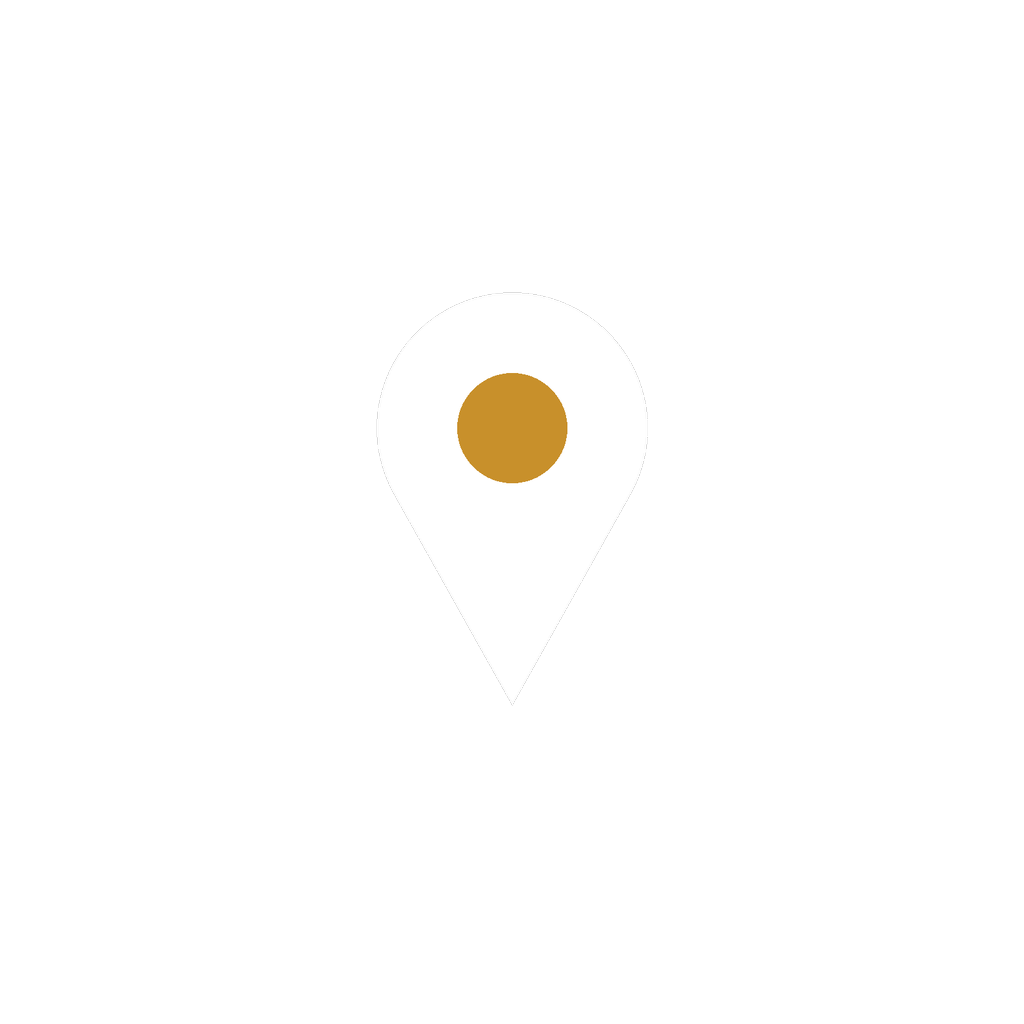
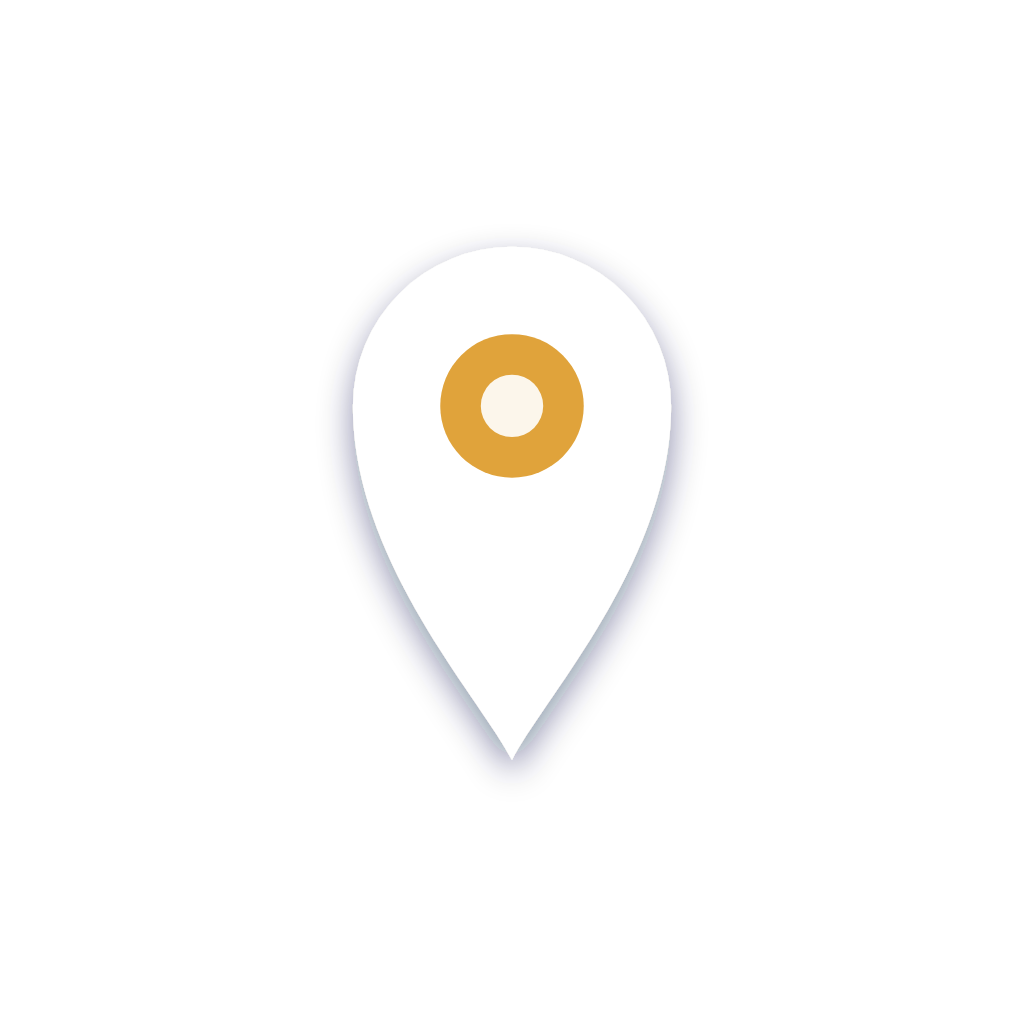
Açılış ekranı, yeni ikon ve telif koruması (sürüm 3.2)
- Açılışta uygulama adı, ikon ve 'Hazırlayan: Mert Turanlıoğlu' ekranı
- Yeni ikon: ana ekran (iPhone/Android) ve APK için
- LICENSE: tüm hakları saklıdır; kod ve dosyalarda telif notu
- Uygulama başka bir sitede yayınlanırsa orijinalini gösteren uyarı

Changed region(s): [[0.3125, 0.3125, 0.6875, 0.75], [0.4062, 0.3125, 0.5938, 0.4688]]

diff --git a/docs/index.html b/docs/index.html
@@ -1,10 +1,14 @@
 <!doctype html>
+<!-- Gezi Rehberi · © 2026 Mert Turanlıoğlu · Tüm hakları saklıdır. İzinsiz kopyalanamaz ve yayınlanamaz. -->
 <html lang="tr">
 <head>
 <meta charset="utf-8">
 <meta name="viewport" content="width=device-width,initial-scale=1,viewport-fit=cover">
 <meta name="theme-color" content="#1f4fa3">
 <title>Gezi Rehberi</title>
+<meta name="author" content="Mert Turanlıoğlu">
+<meta name="copyright" content="© 2026 Mert Turanlıoğlu. Tüm hakları saklıdır.">
+<meta name="description" content="Gezi Rehberi: Türkiye'nin 81 ilinde gezilecek yerler. Hazırlayan: Mert Turanlıoğlu.">
 <link rel="manifest" href="manifest.webmanifest">
 <link rel="icon" href="icon-192.png">
 <link rel="apple-touch-icon" href="apple-touch-icon.png">
@@ -13,9 +17,41 @@
 <meta name="apple-mobile-web-app-title" content="Gezi Rehberi">
 <meta name="apple-mobile-web-app-status-bar-style" content="default">
 <link rel="stylesheet" href="vendor/leaflet.css">
-<link rel="stylesheet" href="style.css?v=3.1">
+<link rel="stylesheet" href="style.css?v=3.2">
+<style>
+.splash{position:fixed;inset:0;z-index:9999;display:flex;flex-direction:column;align-items:center;justify-content:space-between;
+  padding:calc(24px + env(safe-area-inset-top,0px)) 24px calc(34px + env(safe-area-inset-bottom,0px));
+  background:linear-gradient(165deg,#2f6ad0,#1f4fa3 55%,#163a7c);color:#fff;text-align:center;
+  font-family:system-ui,-apple-system,"Segoe UI",Roboto,sans-serif;transition:opacity .45s ease,visibility .45s;cursor:pointer}
+.splash.out{opacity:0;visibility:hidden}
+.sp-mid{flex:1;display:flex;flex-direction:column;align-items:center;justify-content:center;gap:14px}
+.sp-mid img{width:116px;height:116px;border-radius:27px;box-shadow:0 18px 40px rgba(5,20,50,.45);animation:spPop .7s cubic-bezier(.2,1.4,.4,1) both}
+.sp-app{font-size:34px;font-weight:800;letter-spacing:-.5px;margin:6px 0 0;animation:spUp .6s .2s ease both}
+.sp-tag{font-size:15px;opacity:.85;margin:0;animation:spUp .6s .3s ease both}
+.sp-by{display:flex;flex-direction:column;gap:2px;animation:spUp .6s .45s ease both}
+.sp-by small{font-size:12px;letter-spacing:.14em;text-transform:uppercase;opacity:.75}
+.sp-by b{font-size:26px;font-weight:700;letter-spacing:.2px}
+.sp-by span{font-size:11px;opacity:.6;margin-top:6px}
+@keyframes spPop{from{opacity:0;transform:scale(.7)}to{opacity:1;transform:none}}
+@keyframes spUp{from{opacity:0;transform:translateY(12px)}to{opacity:1;transform:none}}
+@media (prefers-reduced-motion:reduce){.sp-mid img,.sp-app,.sp-tag,.sp-by{animation:none}}
+.kopya{position:fixed;left:0;right:0;bottom:0;z-index:9000;background:#c2462e;color:#fff;font:600 13px/1.4 system-ui,sans-serif;text-align:center;padding:10px 14px calc(10px + env(safe-area-inset-bottom,0px))}
+.kopya a{color:#fff}
+</style>
 </head>
 <body>
+<div class="splash" id="splash" aria-hidden="true">
+  <div class="sp-mid">
+    <img src="icon-512.png" alt="">
+    <p class="sp-app">Gezi Rehberi</p>
+    <p class="sp-tag">Türkiye'nin 81 ilinde gezilecek yerler</p>
+  </div>
+  <div class="sp-by">
+    <small>Hazırlayan</small>
+    <b>Mert Turanlıoğlu</b>
+    <span>© 2026 · Tüm hakları saklıdır</span>
+  </div>
+</div>
 <header class="top">
   <button class="back" id="back" hidden aria-label="Geri">‹</button>
   <div class="titles">
@@ -37,7 +73,7 @@
     <ul class="ils" id="ilGrid"><li class="empty">Yükleniyor…</li></ul>
   </div>
   <p class="credit" id="ver"></p>
-  <p class="credit">Hazırlayan: <b>Mert Turanlıoğlu</b></p>
+  <p class="credit">Hazırlayan: <b>Mert Turanlıoğlu</b><br>© 2026 Mert Turanlıoğlu · Tüm hakları saklıdır</p>
 </main>
 
 <main id="city" class="view" hidden>
@@ -89,6 +125,24 @@
 </div>
 
 <script src="vendor/leaflet.js"></script>
-<script src="app.js?v=3.1"></script>
+<script src="app.js?v=3.2"></script>
+<script>
+/* Açılış ekranı ve kopya uyarısı · © 2026 Mert Turanlıoğlu */
+(function () {
+  var s = document.getElementById("splash"), bitti = false;
+  function kapat() { if (bitti) return; bitti = true; s.classList.add("out"); setTimeout(function () { s.remove(); }, 500); }
+  function hazir() { setTimeout(kapat, Math.max(0, 2000 - performance.now())); }
+  s.addEventListener("click", kapat);
+  if (document.readyState === "complete") hazir(); else addEventListener("load", hazir);
+  setTimeout(kapat, 4500);
+  // Uygulama başka bir sitede kopyalanıp yayınlanırsa orijinalini göster
+  var h = location.hostname, izinli = ["me7rt.github.io", "localhost", "127.0.0.1", ""];
+  if (izinli.indexOf(h) < 0) {
+    var b = document.createElement("div"); b.className = "kopya";
+    b.innerHTML = 'Bu uygulama <b>Mert Turanlıoğlu</b>\'na aittir. Orijinali: <a href="https://me7rt.github.io/Gezi-Rehberi/">me7rt.github.io/Gezi-Rehberi</a>';
+    document.body.appendChild(b);
+  }
+})();
+</script>
 </body>
 </html>

diff --git a/docs/app.js b/docs/app.js
@@ -1,8 +1,9 @@
-/* Gezi Rehberi 3: 81 il, tüm ilçeler, canlı konum.
+/* Gezi Rehberi · © 2026 Mert Turanlıoğlu · Tüm hakları saklıdır. İzinsiz kopyalanamaz ve yayınlanamaz.
+   Gezi Rehberi 3: 81 il, tüm ilçeler, canlı konum.
    Veri docs/data altında; GitHub Actions'ta Wikidata, Vikipedi ve Commons'tan hazırlanır (scripts/uret.mjs). */
 (function () {
   "use strict";
-  const SURUM = "3.1";
+  const SURUM = "3.2";
 
   const SVG = {
     t: '<path d="M4 20h16M6 20v-7M18 20v-7M5 13h14M7 13a5 5 0 0 1 10 0M12 4v4"/>',

diff --git a/docs/style.css b/docs/style.css
@@ -1,3 +1,4 @@
+/* Gezi Rehberi · © 2026 Mert Turanlıoğlu · Tüm hakları saklıdır. */
 :root{
   --bg:#eef2f3; --surface:#fff; --fg:#14262e; --muted:#5b6f77; --line:#d6dfe2;
   --cobalt:#1f4fa3; --tile:#c2462e; --sesame:#c8902b; --green:#2f7d5b; --plum:#7a3f8c; --teal:#13707a;

diff --git a/README.md b/README.md
@@ -11,3 +11,7 @@ Türkiye'nin 81 ili ve tüm ilçelerinde gezilecek yerler: harita, canlı konuma
 - Kategoriler: t = Tarihi, d = Doğa & Manzara, m = Müze, c = Çarşı & Lezzet, s = Şehir & Semt
 
 Bilgiler Vikipedi (CC BY-SA), fotoğraflar Wikimedia Commons (her fotoğrafın yazarı ve lisansı uygulamada gösterilir), harita © OpenStreetMap katkıcıları.
+
+## Telif
+
+© 2026 Mert Turanlıoğlu. Tüm hakları saklıdır. Kod, tasarım, ikon ve açılış ekranı izinsiz kopyalanamaz, başka bir adla yayınlanamaz veya mağazalara yüklenemez. Ayrıntılar: [LICENSE](LICENSE).
